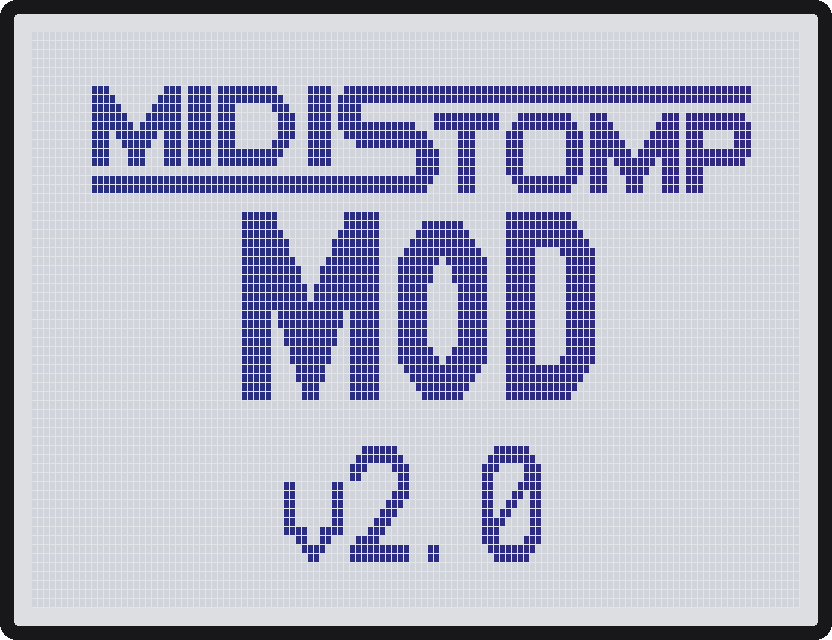
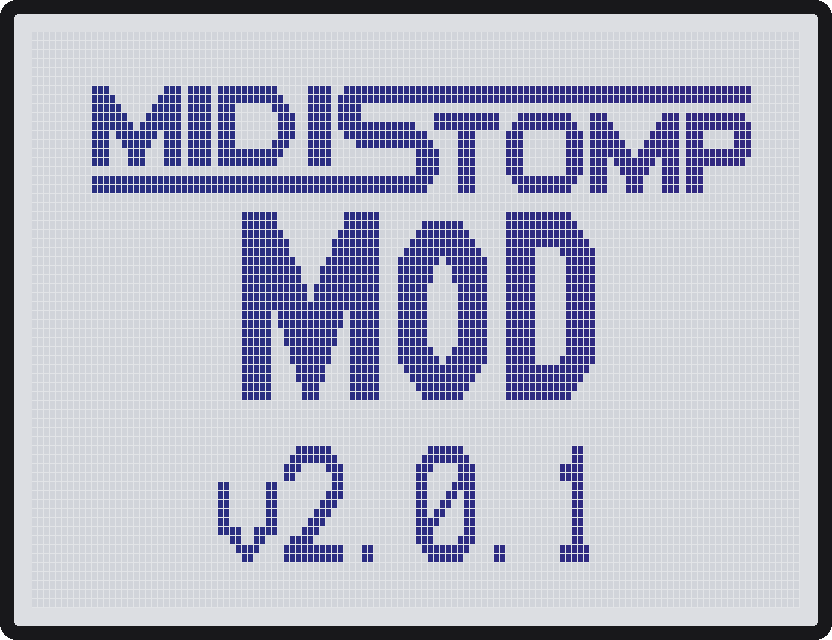
Version text: V2.0.1 everywhere
SYSTEM read V2.0 in v2.0.1: the stamp comes from the version patch's
file name, so it is now patches/version-2.0.1.yaml. Updater title and
file name read MIDISTOMP V2.0.1 Updater.

Changed region(s): [[0.25, 0.6875, 0.7188, 0.875]]

diff --git a/scripts/midistomp_builder.py b/scripts/midistomp_builder.py
@@ -8,7 +8,7 @@ Frozen into MIDISTOMP-builder-Windows.exe and MIDISTOMP-builder-Mac-* by
 The MS-50G build is frozen at tag v1.1; v1.2 and v2.0 are built from the MS-70CDR 2.10 OS.
 
 Also takes Zoom's Mac updater (ZOOM MS-70CDR v2.10 Updater.app) and then writes
-MIDISTOMP V2.0 Updater.app, same as `zoomms build-mac`. On a Mac it then signs
+MIDISTOMP V2.0.1 Updater.app, same as `zoomms build-mac`. On a Mac it then signs
 that app for this Mac (xattr + ad-hoc codesign), so it opens with a double-click.
 Started with no file (a double-click on the Mac), it asks for the path: the user
 drags the app into the Terminal window.
@@ -25,11 +25,11 @@ from pathlib import Path
 from zoomms import cli, macapp, models
 
 ROOT = Path(getattr(sys, "_MEIPASS", Path(__file__).resolve().parent.parent))
-NAME = "MIDISTOMP V2.0"
-BASE = ["version-2.0", "boot-logo", "midi-cc", "midi-clock", "midi-settings", "tempo-hold", "scroll"]   # the v1.2 set
+NAME = "MIDISTOMP V2.0.1"
+BASE = ["version-2.0.1", "boot-logo", "midi-cc", "midi-clock", "midi-settings", "tempo-hold", "scroll"]   # the v1.2 set
 PATCHES = BASE + ["looper", "mixer-m2", "diag", "dsp-limit", "fx-category"]   # looper, then mixer-m2, then diag; m0-probe stays test-only
-OUT_NAME = "MIDISTOMP V2.0 Updater.exe"
-OUT_NAME_MAC = "MIDISTOMP V2.0 Updater.app"
+OUT_NAME = "MIDISTOMP V2.0.1 Updater.exe"
+OUT_NAME_MAC = "MIDISTOMP V2.0.1 Updater.app"
 
 
 def build(updater: Path, out: Path, mac: bool = False) -> int:

diff --git a/scripts/screens/fw_shot.py b/scripts/screens/fw_shot.py
@@ -22,8 +22,8 @@ UPDATER = Path(os.environ.get("ZOOM_UPDATER", Path.home() / "Downloads/ZOOM MS-7
 FB, B14, STOP, SP = 0x11816800, 0xC00EF748, 0xDEAD0000, 0x1180CF78
 RELEASE = ["version-1.2", "boot-logo", "midi-cc", "midi-clock", "midi-settings", "tempo-hold", "scroll"]
 # v2 = the 2.0 release set, midistomp_builder.PATCHES
-STAMP = ["version=V2.0", "commit=08f3ed8", "date=2026-10-24"]  # fixed diag.c build stamps, so the shots do not change per run
-IMAGES = {"release": RELEASE, "v2": ["version-2.0"] + RELEASE[1:] + ["looper", "mixer-m2", "diag", "dsp-limit", "fx-category"]}
+STAMP = ["version=V2.0.1", "commit=08f3ed8", "date=2026-10-24"]  # fixed diag.c build stamps, so the shots do not change per run
+IMAGES = {"release": RELEASE, "v2": ["version-2.0.1"] + RELEASE[1:] + ["looper", "mixer-m2", "diag", "dsp-limit", "fx-category"]}
 
 
 def available():
@@ -253,7 +253,7 @@ SCREENS = {
     "hold_for": ("release", hold_for),  # v2 changes HOLD FOR in the list (pedal_in.c), no choice screen
     "tempo_turn_tap": ("release", tempo(False)),
     "tempo_clock": ("release", tempo(True)),
-    "boot": ("release", boot_screen("v2.0")),
+    "boot": ("release", boot_screen("v2.0.1")),
     **{f"mixer_{n}": ("v2", mixer_page(pg)) for n, pg in [("in", 0), ("route", 1), ("mix_1", 3), ("mix_2", 4), ("mix_3", 5), ("out", 6)]},
     **{f"system_{n}": ("v2", system(i)) for i, n in enumerate(["version", "load", "effects", "mods"])},
 }

diff --git a/tests/test_flash.py b/tests/test_flash.py
@@ -45,6 +45,7 @@ def test_updater_accepts_all_three_models():
 def test_set_title_every_copy():
     old = b"ZOOM MS-70CDR v2.10 Updater"
     exe = bytearray(b"x\0" + old + b"\0" + old + b" (%d)\0y\0" + old + b"\0z")
-    flash.set_title(exe, "MIDISTOMP Mod V2.0 Updater")
-    new = b"MIDISTOMP Mod V2.0 Updater"
-    assert exe == b"x\0" + new + b"\0\0" + new + b" (%d)\0\0y\0" + new + b"\0\0z"
+    flash.set_title(exe, "MIDISTOMP V2.0.1 Updater")
+    new = b"MIDISTOMP V2.0.1 Updater"
+    pad = bytes(len(old) - len(new))
+    assert exe == b"x\0" + new + b"\0" + pad + new + b" (%d)\0" + pad + b"y\0" + new + b"\0" + pad + b"z"

diff --git a/zoomms/cli.py b/zoomms/cli.py
@@ -105,7 +105,7 @@ def _apply_patches(original: bytes, stock_133: bytes, patch_paths: list[str], bu
     return new_os, (bytes(d133) if d133 != stock_133 else None), img
 
 
-WIN_TITLE = "MIDISTOMP Mod V2.0 Updater"  # Windows window title
+WIN_TITLE = "MIDISTOMP V2.0.1 Updater"  # Windows window title
 
 
 def cmd_build(args) -> int:

diff --git a/docs/user-guide.md b/docs/user-guide.md
@@ -1,4 +1,4 @@
-<p align="center"><img src="img/banner.jpg" alt="MIDISTOMP MOD v2.0 on the screen of a Zoom MultiStomp" width="720"></p>
+<p align="center"><img src="img/banner.jpg" alt="MIDISTOMP MOD v2.0.1 on the screen of a Zoom MultiStomp" width="720"></p>
 
 <h1 align="center">MIDISTOMP 2.0 user guide</h1>
 
@@ -74,7 +74,7 @@ Your patches are kept, but back them up first anyway, just in case (with your us
    [release page](https://github.com/matujuice/zoom-ms-midistomp/releases).
 3. Put both files in one folder and open it in File Explorer. With the mouse, drag `ZOOM MS-70CDR v2.10 Updater.exe`
    and drop it on the `MIDISTOMP-builder-Windows.exe` icon (don't run either of them yet). The builder opens a
-   window for a moment and writes a new file, **MIDISTOMP V2.0 Updater.exe**, in the same folder. It refuses any
+   window for a moment and writes a new file, **MIDISTOMP V2.0.1 Updater.exe**, in the same folder. It refuses any
    other file, so a wrong download can't produce a broken updater.
 4. Windows may warn that the program is unknown (it is not signed). Choose "More info", then "Run anyway".
 5. Pedal off. Hold the **up and down cursor keys** while you plug in the USB cable (the mini-USB port next to the
@@ -82,10 +82,10 @@ Your patches are kept, but back them up first anyway, just in case (with your us
 
    <img src="img/ms70cdr-usb.jpg" alt="The mini-USB port and the power jack on the side of the pedal" width="320">
 
-6. Run `MIDISTOMP V2.0 Updater.exe` and let it finish. Don't unplug during the update.
+6. Run `MIDISTOMP V2.0.1 Updater.exe` and let it finish. Don't unplug during the update.
 7. Unplug and power on normally. The boot screen reads **MIDISTOMP MOD v2.0.1**, and MENU > SYSTEM shows **V2.0.1**.
 
-   <img src="img/boot-screen.png" alt="MIDISTOMP MOD v2.0 boot screen" width="300">
+   <img src="img/boot-screen.png" alt="MIDISTOMP MOD v2.0.1 boot screen" width="300">
 
 8. **On an MS-70CDR,** set SETTINGS > **INPUT** to **STEREO** to get the stereo routing modes (see
    [SETTINGS](#settings)). On the MS-50G and MS-60B leave it on MONO.
@@ -109,11 +109,11 @@ flashed to an MS-50G from an Apple Silicon Mac.
 3. Double-click **MIDISTOMP-builder-Mac-…**. It is not notarized, so the first time macOS refuses it: open System
    Settings > Privacy & Security, click **Open Anyway** next to it, and double-click it again.
 4. A Terminal window asks for Zoom's updater: drag `ZOOM MS-70CDR v2.10 Updater.app` onto that window and press
-   Enter. It writes **MIDISTOMP V2.0 Updater.app** next to Zoom's app and signs it for your Mac. It refuses anything
+   Enter. It writes **MIDISTOMP V2.0.1 Updater.app** next to Zoom's app and signs it for your Mac. It refuses anything
    that is not Zoom's original.
-5. Put the pedal in update mode (step 5 of the Windows steps above) and open **MIDISTOMP V2.0 Updater.app**. It is
+5. Put the pedal in update mode (step 5 of the Windows steps above) and open **MIDISTOMP V2.0.1 Updater.app**. It is
    an Intel app, so Apple Silicon Macs run it through Rosetta (macOS offers to install it). Its window reads
-   **MIDISTOMP V2.0 Updater**; click Execute.
+   **MIDISTOMP V2.0.1 Updater**; click Execute.
 
 To run the builder from source instead of steps 2 to 4 (needs Python and Terminal): get this repository
 (`git clone`, or Code > Download ZIP on GitHub) and Python 3.10 or newer (from python.org or Homebrew; the `python3`
@@ -124,7 +124,7 @@ python3 -m venv .venv && .venv/bin/pip install -e .
 .venv/bin/python scripts/midistomp_builder.py "/path/to/ZOOM MS-70CDR v2.10 Updater.app"
 ```
 
-It writes and signs **MIDISTOMP V2.0 Updater.app** the same way. If signing fails, it prints the two Terminal lines
+It writes and signs **MIDISTOMP V2.0.1 Updater.app** the same way. If signing fails, it prints the two Terminal lines
 (`xattr -cr` and `codesign --force --deep --sign -`) to run on the app yourself.
 
 After MIDISTOMP is installed, the pedal reports itself as an MS-70CDR over USB, whichever pedal it is. Zoom's MS-50G
@@ -142,7 +142,7 @@ python3 -m venv .venv && .venv/bin/pip install -e .
 .venv/bin/python scripts/midistomp_builder.py "/path/to/ZOOM MS-70CDR v2.10 Updater.exe"
 ```
 
-It writes **MIDISTOMP V2.0 Updater.exe** next to Zoom's updater. Running the updaters under Wine, or in a virtual
+It writes **MIDISTOMP V2.0.1 Updater.exe** next to Zoom's updater. Running the updaters under Wine, or in a virtual
 machine with USB passed through, is not tested.
 
 ### Recovery and going back to stock

diff --git a/docs/flashing.md b/docs/flashing.md
@@ -64,11 +64,11 @@ zoomms build "firmware/MS-50G_v3.10_Win_E/ZOOM MS-50G System v3.10 Updater.exe" 
   --patch patches/scroll.yaml \
   --build-id ms50g-3.10 --out build/out/ms50g-3.10-midistomp-1.1.exe   # MIDISTOMP V1.1 (frozen, tag v1.1)
 zoomms build "firmware/MS-70CDR_v2.10_Win_E/ZOOM MS-70CDR v2.10 Updater.exe" \
-  --patch patches/version-2.0.yaml --patch patches/boot-logo.yaml --patch patches/midi-cc.yaml \
+  --patch patches/version-2.0.1.yaml --patch patches/boot-logo.yaml --patch patches/midi-cc.yaml \
   --patch patches/midi-clock.yaml --patch patches/midi-settings.yaml --patch patches/tempo-hold.yaml \
   --patch patches/scroll.yaml --patch patches/looper.yaml --patch patches/mixer-m2.yaml \
   --patch patches/diag.yaml --patch patches/dsp-limit.yaml --patch patches/fx-category.yaml \
-  --build-id ms70cdr-2.10 --out "build/out/MIDISTOMP V2.0 Updater.exe"   # MIDISTOMP V2.0, all pedals
+  --build-id ms70cdr-2.10 --out "build/out/MIDISTOMP V2.0.1 Updater.exe"   # MIDISTOMP V2.0.1, all pedals
 ```
 
 The patch list is `PATCHES` in `scripts/midistomp_builder.py`. A test build adds
@@ -125,7 +125,7 @@ Value" sends CCs).
 ## Mac updater
 
 `zoomms build-mac` does the same for Zoom's Mac updater app, see
-`zoomms/macapp.py`. v1.2 and v2.0 are built from `MS-70CDR_v2.10_Mac_E`; v1.1 was built
+`zoomms/macapp.py`. v1.2, v2.0 and v2.0.1 are built from `MS-70CDR_v2.10_Mac_E`; v1.1 was built
 from `MS-50G_v3.10_Mac_E` (command below, needs tag `v1.1`). In both, the
 `Resources/Main.bin`, `Preset.bin`, `boot.bin` and `FS.bin` are byte-identical
 to BIN/129, 133, 136 and 137, and `_RomProcedure` in the executable is the
@@ -149,11 +149,11 @@ the Mac (`xattr -cr` then `codesign --force --deep --sign -`).
 
 ```sh
 zoomms build-mac "firmware/MS-70CDR_v2.10_Mac_E/ZOOM MS-70CDR v2.10 Updater.app" \
-  --patch patches/version-2.0.yaml --patch patches/boot-logo.yaml --patch patches/midi-cc.yaml \
+  --patch patches/version-2.0.1.yaml --patch patches/boot-logo.yaml --patch patches/midi-cc.yaml \
   --patch patches/midi-clock.yaml --patch patches/midi-settings.yaml --patch patches/tempo-hold.yaml \
   --patch patches/scroll.yaml --patch patches/looper.yaml --patch patches/mixer-m2.yaml \
   --patch patches/diag.yaml --patch patches/dsp-limit.yaml --patch patches/fx-category.yaml \
-  --build-id ms70cdr-2.10 --out "build/out/MIDISTOMP V2.0 Updater.app"
+  --build-id ms70cdr-2.10 --out "build/out/MIDISTOMP V2.0.1 Updater.app"
 zoomms build-mac "firmware/MS-50G_v3.10_Mac_E/ZOOM MS-50G v3.10 Updater.app" \
   --patch patches/version-1.1.yaml --patch patches/boot-logo.yaml --patch patches/midi-cc.yaml \
   --patch patches/midi-clock.yaml --patch patches/midi-settings.yaml --patch patches/tempo-hold.yaml \

diff --git a/docs/releases/v2.0.1.md b/docs/releases/v2.0.1.md
@@ -25,7 +25,7 @@ Fixes from pedal tests and your reports, plus a few small features.
 
 **Your Perform setups:** Perform moves now store the target's own value, so setups saved in v2.0 are cleared. Patches, routing and installed effects are kept. Back up your patches before you update anyway, just in case.
 
-**Install:** same as v2.0. Download **MIDISTOMP-builder-Windows.exe** below and drop Zoom's official **MS-70CDR v2.10** Windows updater on it (also for the MS-50G and MS-60B), then run the `MIDISTOMP V2.0 Updater.exe` it writes. The boot screen reads **v2.0.1**. On a Mac, use **MIDISTOMP-builder-Mac-AppleSilicon.zip** or **MIDISTOMP-builder-Mac-Intel.zip**: [On a Mac](https://github.com/matujuice/zoom-ms-midistomp/blob/main/docs/user-guide.md#on-a-mac). Recovery: Zoom's original updater.
+**Install:** same as v2.0. Download **MIDISTOMP-builder-Windows.exe** below and drop Zoom's official **MS-70CDR v2.10** Windows updater on it (also for the MS-50G and MS-60B), then run the `MIDISTOMP V2.0.1 Updater.exe` it writes. The boot screen reads **v2.0.1**. On a Mac, use **MIDISTOMP-builder-Mac-AppleSilicon.zip** or **MIDISTOMP-builder-Mac-Intel.zip**: [On a Mac](https://github.com/matujuice/zoom-ms-midistomp/blob/main/docs/user-guide.md#on-a-mac). Recovery: Zoom's original updater.
 
 No download here contains Zoom's code: the builders make the MIDISTOMP updater from your own copy of Zoom's.
 

diff --git a/README.md b/README.md
@@ -1,4 +1,4 @@
-<p align="center"><img src="docs/img/banner.jpg" alt="MIDISTOMP MOD v2.0 on the screen of a Zoom MultiStomp" width="720"></p>
+<p align="center"><img src="docs/img/banner.jpg" alt="MIDISTOMP MOD v2.0.1 on the screen of a Zoom MultiStomp" width="720"></p>
 
 <h1 align="center">MIDISTOMP 2.0</h1>
 
@@ -123,7 +123,7 @@ Your patches are kept, but back them up first anyway, just in case (with your us
    Use it for every pedal, also the MS-50G and MS-60B.
 2. Download **MIDISTOMP-builder-Windows.exe** from the [releases](https://github.com/matujuice/zoom-ms-midistomp/releases).
    In File Explorer, drag Zoom's updater (`ZOOM MS-70CDR v2.10 Updater.exe`) and drop it on the builder's icon.
-   The builder writes **MIDISTOMP V2.0 Updater.exe** in the same folder.
+   The builder writes **MIDISTOMP V2.0.1 Updater.exe** in the same folder.
 3. Hold the up and down keys while you plug in USB, then run the MIDISTOMP updater.
 4. On the pedal, go to MENU > SETTINGS > **INPUT** and choose your input: **STEREO** on an MS-70CDR (needed for the
    Split routing modes), **MONO** on the MS-50G and MS-60B.
